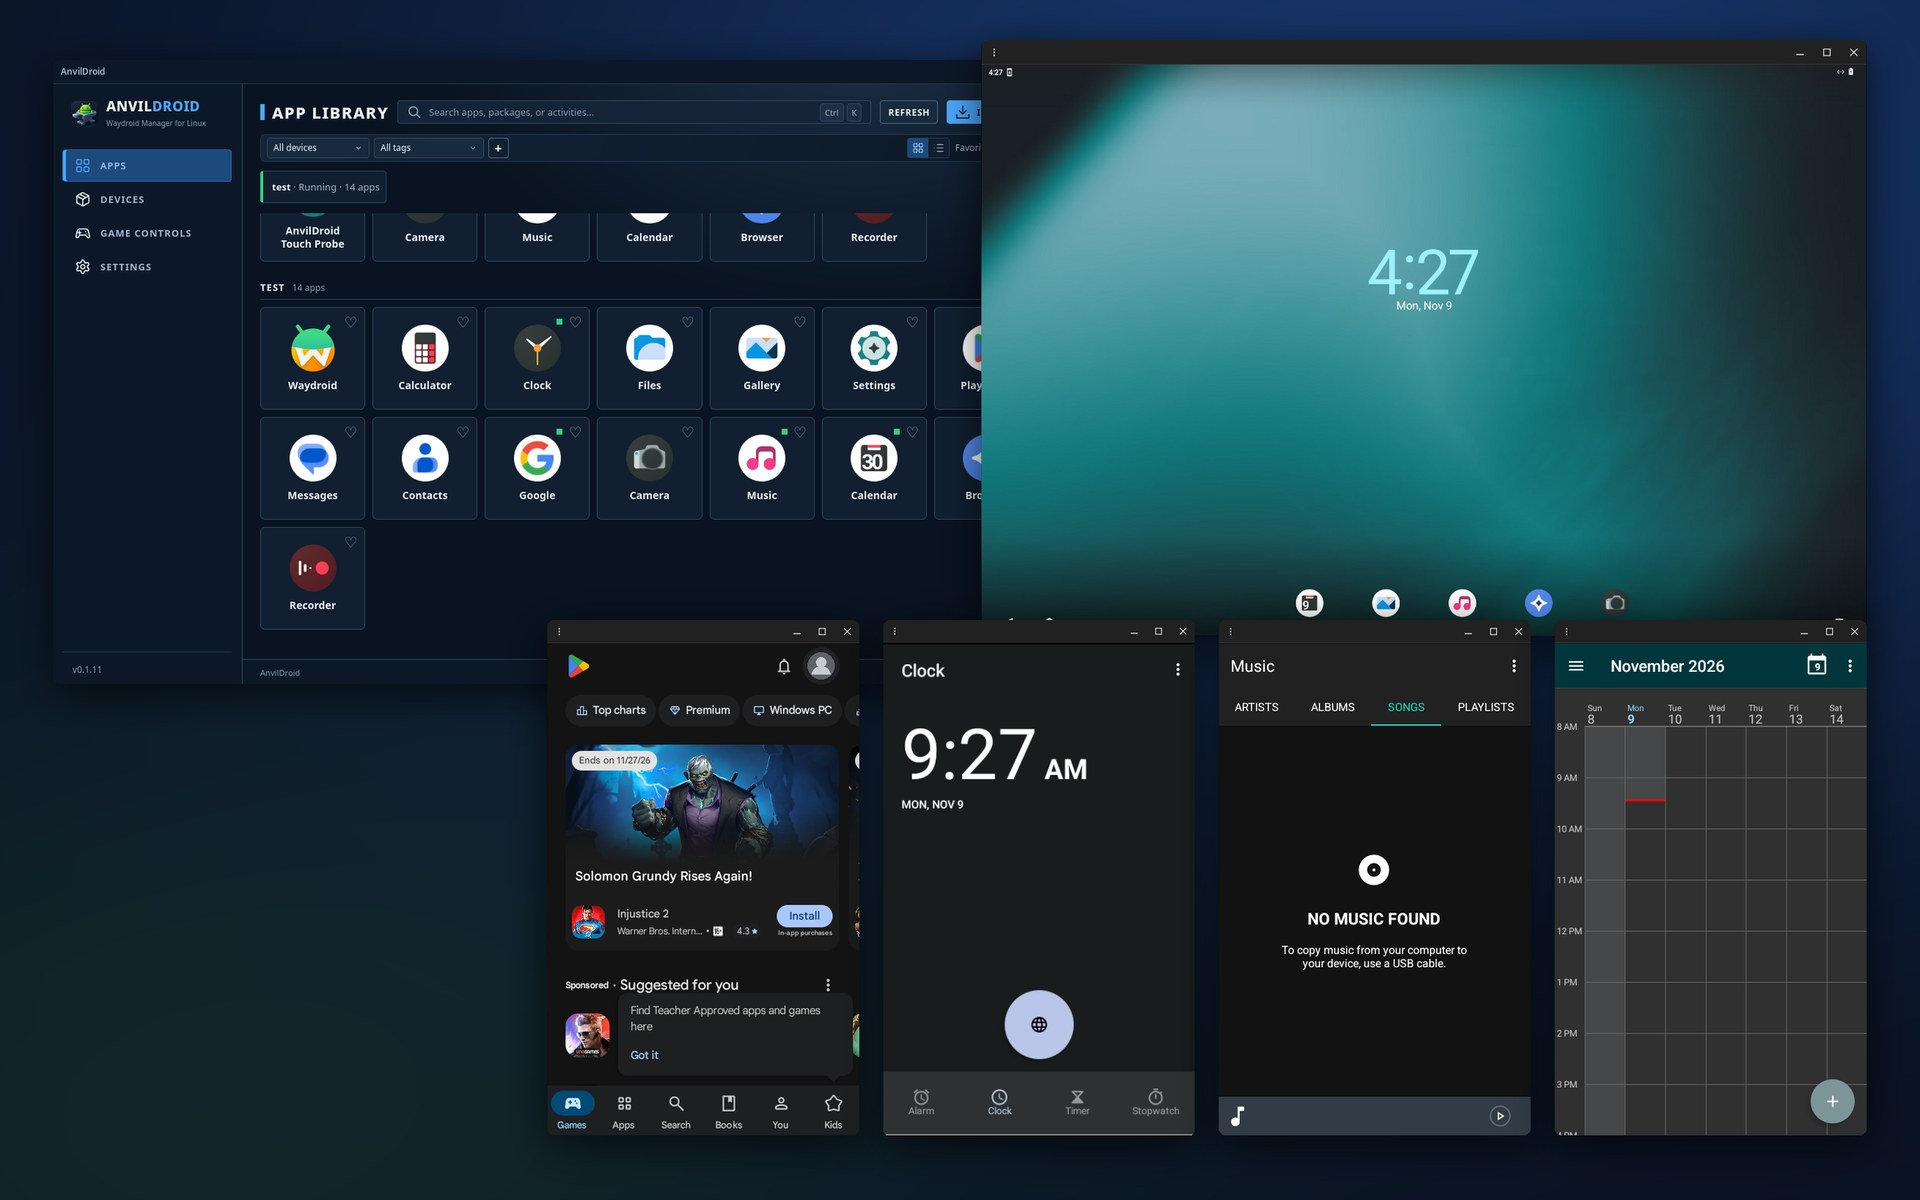
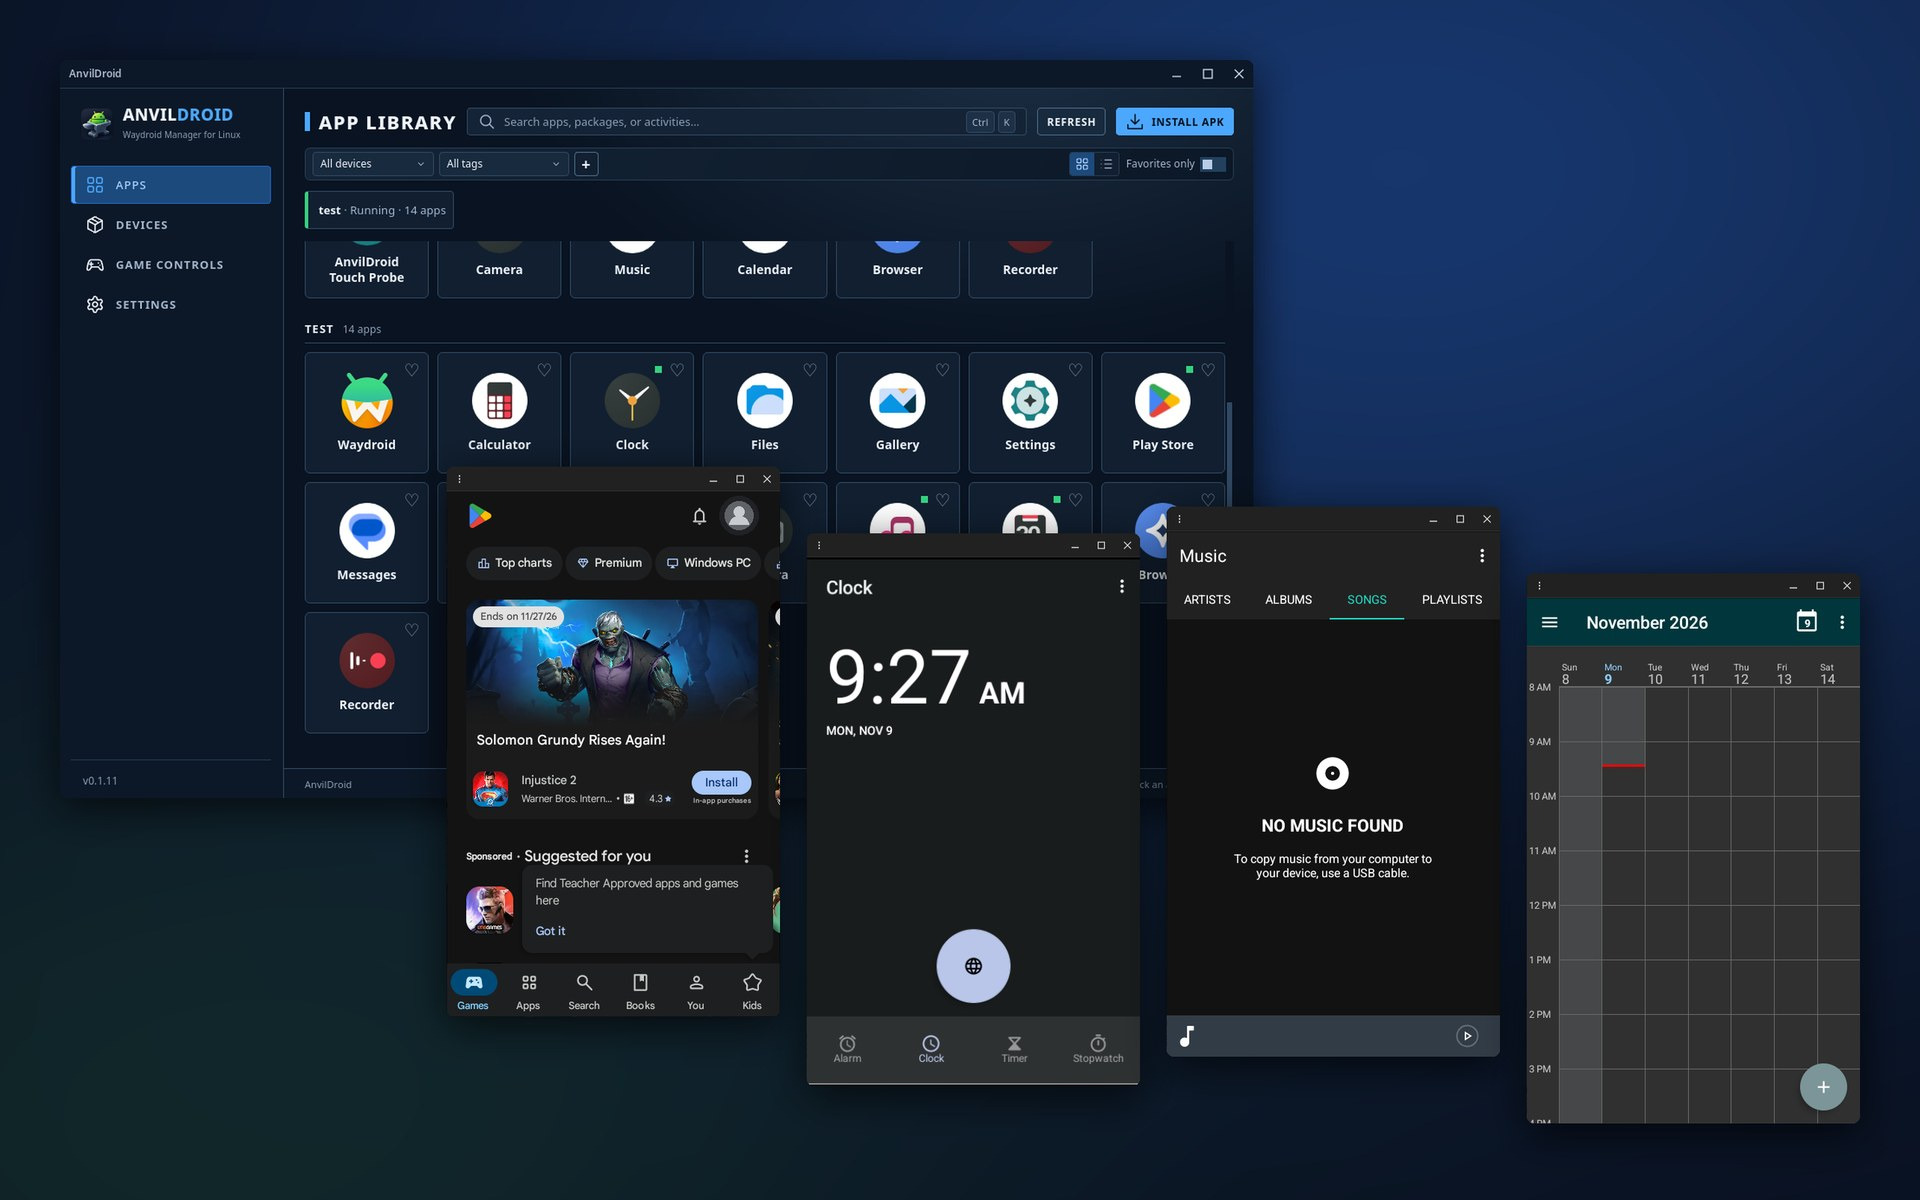
docs: multi-window shot without the full Android UI
A device shows either separate app windows or the full Android UI, not
both. The previous shot put the full UI of System Waydroid next to app
windows of another device, which reads as one device doing both. The
shot now shows only the four app windows next to AnvilDroid.

diff --git a/README.md b/README.md
@@ -13,9 +13,9 @@ windows on Wayland and X11, desktop notifications, game controls and more.
 
 > **Experimental, actively developed.** Linux x86_64 only.
 
-![Android apps in their own desktop windows next to AnvilDroid: Play Store, Clock, Music and Calendar from one device, the full Android UI of System Waydroid from another](docs/images/app-windows.jpg)
+![Play Store, Clock, Music and Calendar in their own desktop windows next to AnvilDroid](docs/images/app-windows.jpg)
 
-<sub>Real windows on KDE Plasma (Wayland): four apps from one device and the full Android UI of a second device, side by side.</sub>
+<sub>Real windows on KDE Plasma (Wayland): four apps from one device, each in its own window.</sub>
 
 <table>
   <tr>

diff --git a/docs/USER-GUIDE.md b/docs/USER-GUIDE.md
@@ -55,7 +55,7 @@ AnvilDroid shows it as **System Waydroid** and skips this guide.
   Compatibility… (per-app *Fake Wi-Fi* and *Mouse as touch*), Force-stop…,
   Create/update menu shortcut, Uninstall….
 
-![Apps from two devices open in their own windows](images/app-windows.jpg)
+![Play Store, Clock, Music and Calendar open in their own windows](images/app-windows.jpg)
 
 Only apps from running devices are listed. New apps get a menu shortcut in your
 desktop's application menu automatically (you can turn this off in Settings).
